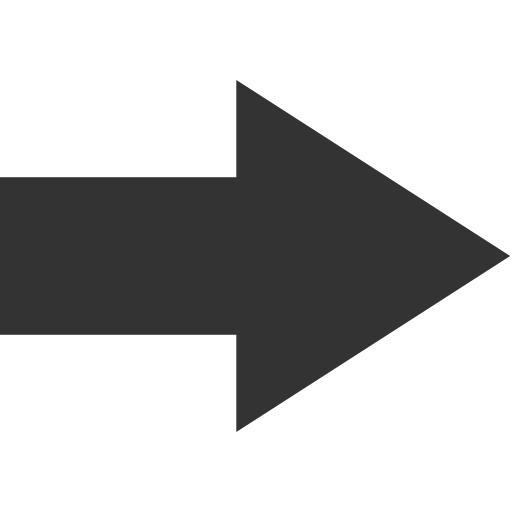
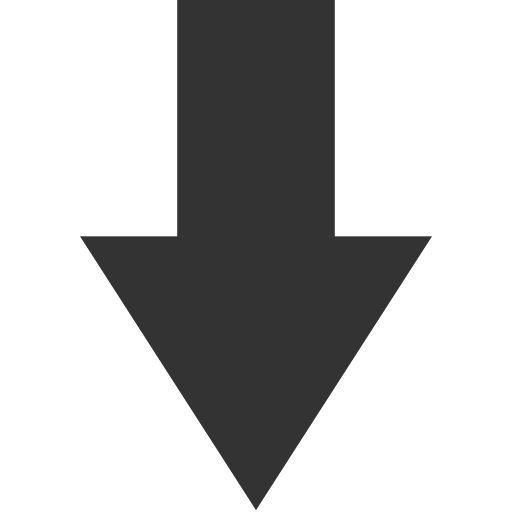
made function to get symbols ready

Changed region(s): [[0.0, 0.0, 1.0, 1.0]]

diff --git a/assets/js/index.js b/assets/js/index.js
@@ -32,6 +32,9 @@ function getResponse(){
     /* this function does wind force and direction*/
     return appendOrientedArrow(array)
   })
+  .then(array=>{
+    return appendWeatherSymbol(array)
+  })
   .catch(error => console.dir(error))
 }
 
@@ -101,9 +104,8 @@ function appendOrientedArrow(relevant_times){
         arrow.src = '../assets/images/small/arrow.jpg';
         let wd_index = getCorrectIndex(relevant_times[i].parameters, "wd");
         let arrowDegrees = (relevant_times[i].parameters[wd_index].values)
-        /* +90 since my arrow is oriented east while smhi arrow is oriented south
-        yeah I know it's a quick image fix but...*/
-        arrow.style.transform = `rotate(${arrowDegrees+90}deg)`;
+
+        arrow.style.transform = `rotate(${arrowDegrees}deg)`;
 
         let windSpeedIndex = getCorrectIndex(relevant_times[i].parameters, "ws")
 
@@ -113,6 +115,20 @@ function appendOrientedArrow(relevant_times){
         TABLE_TEMPERATURES.rows[i+1].cells[3].appendChild(windSpeed)
       }
       return relevant_times
+}
+function appendWeatherSymbol(relevant_times){
+    for (let i = 0; i < 3; i++) {
+      console.dir(relevant_times)
+      let image_weather = new Image(20, 20)
+      let image_index = getCorrectIndex(relevant_times[i].parameters, "Wsymb2")
+      console.dir(image_index)
+      let image_weather_values = relevant_times[i].parameters[image_index].values[0];
+      console.dir(image_weather_values)
+      image_weather.src = '../assets/images/small/arrow.jpg'
+
+      TABLE_TEMPERATURES.rows[i+1].cells[4].appendChild(image_weather)
+
+    }
 }
 /*------------------------------
 Help function to get correct index for temperature, wind direction and wind force,
